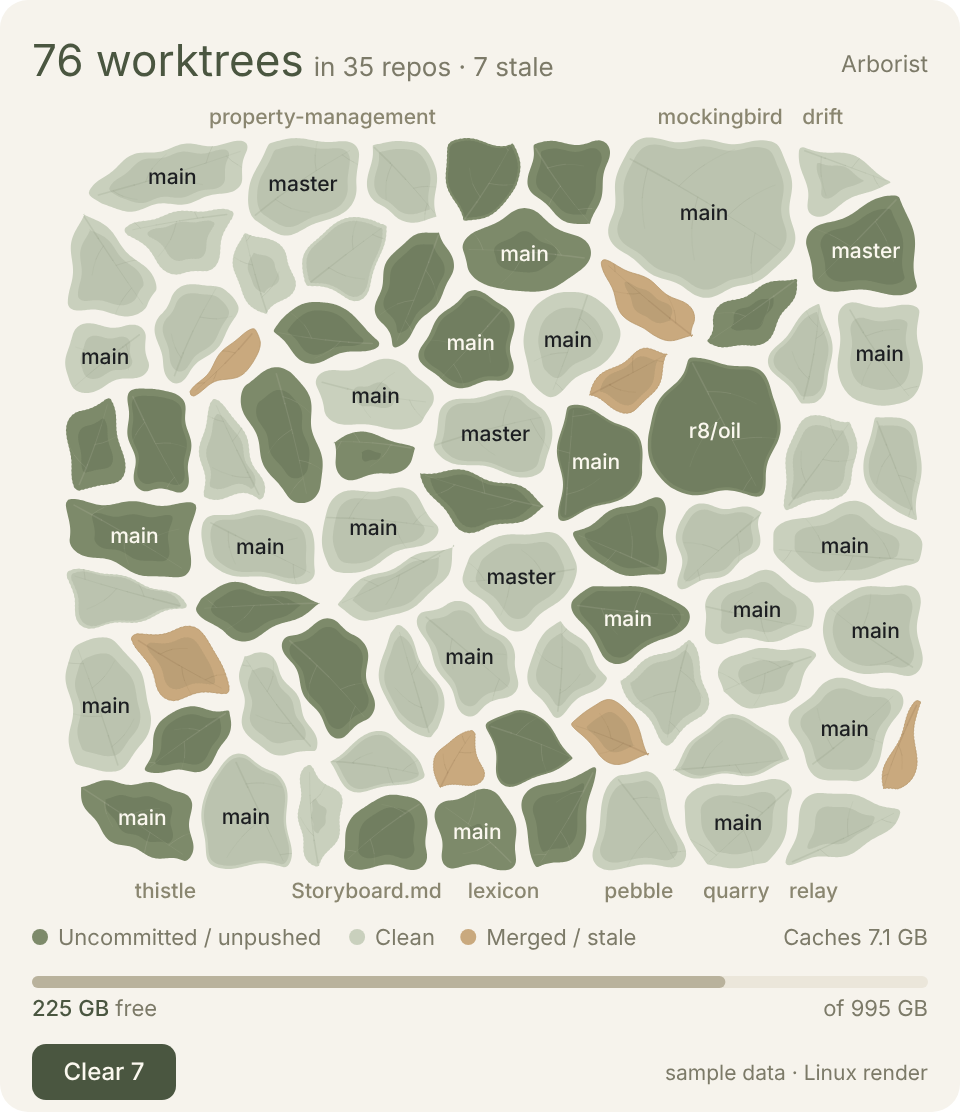
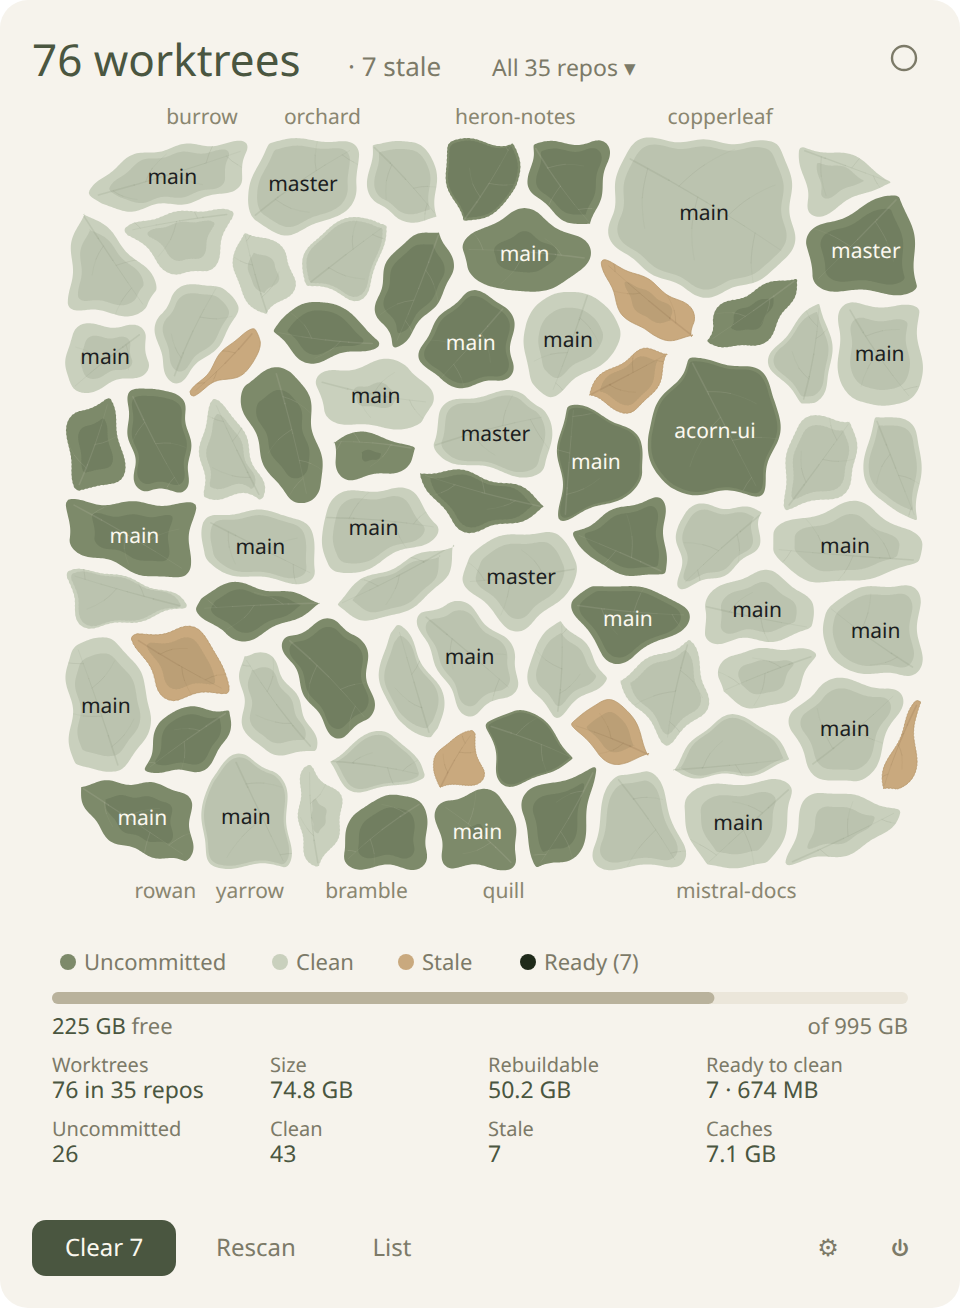
Scrub personal names from sample data and shots
LeafSample and the tests that quote it now use the landing page's botanical repos and branches. Sample paths use /Users/sample. Project context keeps the authorship rule without an email address, and the Linux shots are re-rendered from the current sample.

diff --git a/Sources/ArboristCore/Leaves/LeafSample.swift b/Sources/ArboristCore/Leaves/LeafSample.swift
@@ -7,7 +7,7 @@ public enum LeafSample {
     public static let now = Date(timeIntervalSince1970: 1_793_700_000)   // fixed "now" for renders
     public static let freeBytes = gb(118)
     public static let totalBytes = gb(1000)
-    static let home = "/Users/joseph"
+    static let home = "/Users/sample"
 
     enum S { case dirty(Int), unpushed(Int), merged, gone, clean }
 
@@ -32,30 +32,30 @@ public enum LeafSample {
     }
 
     public static var scan: ScanResult {
-        let pm = "property-management", farm = "farm", arb = "arborist"
+        let orchard = "orchard", rowan = "rowan", arb = "arborist"
         let repos = [
-            Repo(name: pm, path: "\(home)/code/\(pm)", defaultBranch: "main", worktrees: [
-                wt(pm, "main", main: true, src: 2.1, deps: 7.3, .clean, days: 1, "Merge pull request #212"),
-                wt(pm, "feat-t5b-handover", src: 0.6, deps: 5.6, .dirty(4), days: 0.2, "Handover form: tenant step"),
-                wt(pm, "qa1103-forms", src: 0.5, deps: 4.3, .unpushed(2), days: 2, "QA fixes for 11/03"),
-                wt(pm, "fix-inventory-overlap", src: 0.4, deps: 3.5, .merged, days: 19, "Fix inventory overlap"),
-                wt(pm, "spike-ledger", src: 0.1, deps: 0, .gone, days: 41, "Ledger spike"),
+            Repo(name: orchard, path: "\(home)/code/\(orchard)", defaultBranch: "main", worktrees: [
+                wt(orchard, "main", main: true, src: 2.1, deps: 7.3, .clean, days: 1, "Merge pull request #212"),
+                wt(orchard, "acorn-ui", src: 0.6, deps: 5.6, .dirty(4), days: 0.2, "Shade the canopy edge"),
+                wt(orchard, "dew-retry", src: 0.5, deps: 4.3, .unpushed(2), days: 2, "Dew line fixes"),
+                wt(orchard, "twig-layout", src: 0.4, deps: 3.5, .merged, days: 19, "Fix twig overlap"),
+                wt(orchard, "bark-tests", src: 0.1, deps: 0, .gone, days: 41, "Bark tests"),
             ]),
-            Repo(name: farm, path: "\(home)/code/\(farm)", defaultBranch: "main", worktrees: [
-                wt(farm, "main", main: true, src: 3.4, deps: 9.1, .clean, days: 3, "Bump engine"),
-                wt(farm, "expedition-roam", src: 1.2, deps: 6.0, .dirty(11), days: 0.5, "Roaming camera"),
-                wt(farm, "r8/oil", src: 0.9, deps: 4.5, .merged, days: 26, "Oil shader"),
-                wt(farm, "r7/terrain", src: 0.8, deps: 3.3, .merged, days: 33, "Terrain LOD"),
+            Repo(name: rowan, path: "\(home)/code/\(rowan)", defaultBranch: "main", worktrees: [
+                wt(rowan, "main", main: true, src: 3.4, deps: 9.1, .clean, days: 3, "Bump the canopy"),
+                wt(rowan, "canopy-walk", src: 1.2, deps: 6.0, .dirty(11), days: 0.5, "Walking the canopy"),
+                wt(rowan, "r8/sap", src: 0.9, deps: 4.5, .merged, days: 26, "Sap veins"),
+                wt(rowan, "r7/moss", src: 0.8, deps: 3.3, .merged, days: 33, "Moss cover"),
             ]),
             Repo(name: arb, path: "\(home)/code/\(arb)", defaultBranch: "main", worktrees: [
                 wt(arb, "main", main: true, src: 0.3, deps: 1.9, .clean, days: 0.1, "Progressive scan (D11)"),
                 wt(arb, "worktree-first", src: 0.2, deps: 1.4, .dirty(9), days: 0.05, "Worktree-first map", at: "/private/tmp/arborist-worktree-first"),
             ]),
-            Repo(name: "drift", path: "\(home)/code/drift", defaultBranch: "main", worktrees: [
-                wt("drift", "main", main: true, src: 1.6, deps: 3.6, .unpushed(1), days: 6, "Tide tables"),
+            Repo(name: "nettle", path: "\(home)/code/nettle", defaultBranch: "main", worktrees: [
+                wt("nettle", "main", main: true, src: 1.6, deps: 3.6, .unpushed(1), days: 6, "Stem tables"),
             ]),
-            Repo(name: "notes", path: "\(home)/Documents/notes", defaultBranch: "main", worktrees: [
-                wt("notes", "main", main: true, src: 0.05, deps: 0, .clean, days: 90, "Weekly notes"),
+            Repo(name: "teasel", path: "\(home)/Documents/teasel", defaultBranch: "main", worktrees: [
+                wt("teasel", "main", main: true, src: 0.05, deps: 0, .clean, days: 90, "Weekly notes"),
             ]),
         ]
         return ScanResult(scannedAt: now, roots: ["~", "/tmp"], volume: VolumeInfo(path: home, freeBytes: freeBytes, totalBytes: totalBytes),
@@ -67,23 +67,23 @@ public enum LeafSample {
 }
 
 extension LeafSample {
-    /// A busy machine like Joseph's (76 worktrees in 35 repos, long repo names, 0 B prunable /tmp
-    /// worktrees), for the declutter snapshots and label-collision tests (D13). Deterministic.
+    /// A busy machine (76 worktrees in 35 repos, 0 B prunable /tmp worktrees), for the declutter
+    /// snapshots and label-collision tests (D13). Names match the landing-page demo. Deterministic.
     public static var busy: ScanResult {
-        let names = ["property-management", "letta-code", "figma-find", "lexicon", "dogpark", "Storyboard.md", "temper-experiment",
-                     "mockingbird", "canvas-terminal-spike", "test2", "drift", "outputs.space", "Outpost", "product-design", "Recap",
-                     "etch", "sign-sealed", "plan-viewer", "arborist", "farm", "notes", "ledger", "atlas-ui", "kiln", "quarry",
-                     "harbor", "fennel", "orchard", "beacon", "sprout", "relay", "thistle", "pebble", "marrow", "lumen"]
+        let names = ["orchard", "lantern", "tidepool", "quill", "willow-kit", "bramble", "sundial", "copperleaf", "heron-notes",
+                     "hollyhock", "fernhill", "foxglove", "tansy", "nettle", "inkwell", "larkspur", "wicker", "saltmarsh",
+                     "clover", "burrow", "acorn-cli", "meadowlark", "juniper", "cobble-ui", "mistral-docs", "sedge", "bracken",
+                     "hazel", "birchwood", "yarrow", "teasel", "rowan", "sorrel", "mallow", "alder"]
         let counts = [6, 5, 4, 4, 3, 3, 3, 3, 3, 2, 2, 2, 2, 2, 2, 2, 2, 2, 2, 2, 2, 2, 2, 2, 2, 1, 1, 1, 1, 1, 1, 1, 1, 1, 1]
-        let branches = ["feat-t5b-handover", "qa1103-forms", "pr-7430", "fix-overlap", "spike-ledger", "expedition-roam", "r8/oil",
-                        "copy-tweaks", "onboarding-v2", "perf-pass", "hover-fade", "release-1.4", "deps-bump", "docs"]
+        let branches = ["fern-sync", "moss-cache", "dew-retry", "old-canopy", "twig-layout", "bark-tests", "acorn-ui",
+                        "root-scan", "leaf-hover", "pollen-fix", "sprig-docs", "seedling", "grove-api", "thicket"]
         var seed: UInt64 = 7
         func rnd() -> Double { seed = seed &* 6364136223846793005 &+ 1442695040888963407; return Double(seed >> 11) / Double(1 << 53) }
         var repos: [Repo] = [], k = 0
         for (i, name) in names.enumerated() {
             var wts = [wt(name, i % 5 == 0 ? "master" : "main", main: true, src: 0.05 + rnd() * (i == 7 ? 4 : 0.9),
                           deps: i == 7 ? 14.8 : rnd() * 1.2, rnd() < 0.35 ? .dirty(Int(rnd() * 9) + 1) : .clean, days: rnd() * 20,
-                          i == 7 ? "fix(wasm): preserve hot-update chunks when the dev server restarts after a config change" : "Merge main")]
+                          i == 7 ? "fix(canopy): keep the shaded leaves when the grove redraws after a long wind change" : "Merge main")]
             for j in 1..<counts[i] {
                 k += 1
                 let b = branches[k % branches.count] + (k >= branches.count ? "-\(k / branches.count + 1)" : "")

diff --git a/Tests/ArboristCoreTests/DeclutterTests.swift b/Tests/ArboristCoreTests/DeclutterTests.swift
@@ -17,10 +17,10 @@ final class DeclutterLayoutTests: XCTestCase, @unchecked Sendable {
     }
 
     func testPlaceLabelsDropsTheLoserOfACollision() {
-        let a = GroupLabel(name: "figma-find", at: Pt(100, 10)), b = GroupLabel(name: "lexicon", at: Pt(130, 10))
-        let edge = GroupLabel(name: "outputs.space", at: Pt(2, 10))
+        let a = GroupLabel(name: "meadowlark", at: Pt(100, 10)), b = GroupLabel(name: "lantern", at: Pt(130, 10))
+        let edge = GroupLabel(name: "willow-kit", at: Pt(2, 10))
         let kept = LeafLayout.placeLabels([(1, b), (5, a), (9, edge)], width: 448, height: 400)
-        XCTAssertEqual(kept.map(\.name), ["figma-find"], "bigger group wins, the label off the edge is dropped")
+        XCTAssertEqual(kept.map(\.name), ["meadowlark"], "bigger group wins, the label off the edge is dropped")
     }
 
     func testLeafTextIsBranchOnlyAndFitsAt10_5() {
@@ -42,7 +42,7 @@ final class DeclutterLayoutTests: XCTestCase, @unchecked Sendable {
     func testTextFitMeasure() {
         let square = [Pt(0, 0), Pt(60, 0), Pt(60, 40), Pt(0, 40)]
         XCTAssertTrue(LeafText.fits("main", in: square, at: Pt(30, 20)))
-        XCTAssertFalse(LeafText.fits("feat-t5b-handover", in: square, at: Pt(30, 20)))
+        XCTAssertFalse(LeafText.fits("seedling-canopy", in: square, at: Pt(30, 20)))
         XCTAssertGreaterThan(LeafText.width("mmmm", size: 10.5), LeafText.width("iiii", size: 10.5))
     }
 
@@ -96,10 +96,10 @@ final class HoverTrackerTests: XCTestCase, @unchecked Sendable {
 
 final class HoverCardFormatTests: XCTestCase, @unchecked Sendable {
     func testMiddleAbbreviation() {
-        let p = "~/conductor/workspaces/property-management/feat-t5b-handover"
+        let p = "~/conductor/workspaces/willow-kit/seedling-canopy"
         let m = Format.middle(p, max: 38)
         XCTAssertLessThanOrEqual(m.count, 38)
-        XCTAssertTrue(m.hasPrefix("~/conductor/")); XCTAssertTrue(m.hasSuffix("/feat-t5b-handover")); XCTAssertTrue(m.contains("…"))
+        XCTAssertTrue(m.hasPrefix("~/conductor/")); XCTAssertTrue(m.hasSuffix("/seedling-canopy")); XCTAssertTrue(m.contains("…"))
         XCTAssertEqual(Format.middle("~/code/app", max: 38), "~/code/app")
         let noSlash = Format.middle(String(repeating: "x", count: 60), max: 20)
         XCTAssertEqual(noSlash.count, 20)
@@ -119,7 +119,7 @@ final class HoverCardFormatTests: XCTestCase, @unchecked Sendable {
     }
 
     func testWordBoundaryWrap() {
-        let msg = "fix(wasm): preserve hot-update chunks when the dev server restarts after a config change"
+        let msg = "fix(canopy): keep the shaded leaves when the grove redraws after a long wind change"
         let l = Format.wrap(msg, width: 40, maxLines: 2)
         XCTAssertEqual(l.count, 2)
         XCTAssertTrue(l.allSatisfy { $0.count <= 40 })

diff --git a/Tests/ArboristCoreTests/LeafTests.swift b/Tests/ArboristCoreTests/LeafTests.swift
@@ -41,15 +41,15 @@ final class LeafLayoutTests: XCTestCase, @unchecked Sendable {
                 XCTAssertTrue(l.inner.isEmpty)
             }
         }
-        let handover = m.leaves.first { $0.item.name == "feat-t5b-handover" }!
-        XCTAssertEqual(handover.item.rebuildableShare, 0.9, accuracy: 0.001, "5.6 of 6.2 GB, clamped so a rim of source always shows")
+        let acorn = m.leaves.first { $0.item.name == "acorn-ui" }!
+        XCTAssertEqual(acorn.item.rebuildableShare, 0.9, accuracy: 0.001, "5.6 of 6.2 GB, clamped so a rim of source always shows")
     }
 
     func testAreasGrowWithSizeButSmallWorktreesStayVisible() {
         let m = LeafLayout.layout(LeafSample.groups)
-        let farmMain = m.leaves.first { $0.group == "farm" && $0.item.kind == .main }!    // 12.5 GB
-        let spike = m.leaves.first { $0.item.name == "spike-ledger" }!                   // 0.1 GB
-        XCTAssertGreaterThan(Geo.area(farmMain.outline), Geo.area(spike.outline) * 1.5)
+        let rowanMain = m.leaves.first { $0.group == "rowan" && $0.item.kind == .main }!    // 12.5 GB
+        let bark = m.leaves.first { $0.item.name == "bark-tests" }!                     // 0.1 GB
+        XCTAssertGreaterThan(Geo.area(rowanMain.outline), Geo.area(bark.outline) * 1.5)
         XCTAssertGreaterThan(LeafLayout.weight(bytes: 0), 0)
         XCTAssertLessThan(LeafLayout.weight(bytes: 20_000_000_000) / LeafLayout.weight(bytes: 50_000_000), 10)
     }

diff --git a/Tests/ArboristCoreTests/WorktreeFirstTests.swift b/Tests/ArboristCoreTests/WorktreeFirstTests.swift
@@ -27,8 +27,8 @@ final class WorktreeParsingTests: XCTestCase, @unchecked Sendable {
 
 final class WorktreeLabelAndListTests: XCTestCase, @unchecked Sendable {
     func testLabelIsBranchThenRepo() {
-        XCTAssertEqual(WorktreeLabel.text(branch: "feat-t5b-handover", head: nil, repo: "property-management"), "feat-t5b-handover · property-management")
-        XCTAssertEqual(WorktreeLabel.text(branch: nil, head: "abc1234def", repo: "farm"), "detached @abc1234 · farm")
+        XCTAssertEqual(WorktreeLabel.text(branch: "acorn-ui", head: nil, repo: "orchard"), "acorn-ui · orchard")
+        XCTAssertEqual(WorktreeLabel.text(branch: nil, head: "abc1234def", repo: "rowan"), "detached @abc1234 · rowan")
     }
 
     func testHeadline() {
@@ -48,9 +48,9 @@ final class WorktreeLabelAndListTests: XCTestCase, @unchecked Sendable {
     }
 
     func testHoverCard() throws {
-        let ref = try XCTUnwrap(WorktreeList.sorted(LeafSample.scan).first { $0.worktree.branch == "feat-t5b-handover" })
+        let ref = try XCTUnwrap(WorktreeList.sorted(LeafSample.scan).first { $0.worktree.branch == "acorn-ui" })
         let c = HoverCard(ref, now: LeafSample.now, home: LeafSample.home)
-        XCTAssertEqual(c.branch, "feat-t5b-handover")
+        XCTAssertEqual(c.branch, "acorn-ui")
         XCTAssertEqual(c.pill, "Uncommitted")
         XCTAssertTrue(c.path.hasPrefix("~/"))
         XCTAssertLessThanOrEqual(c.path.count, HoverCard.pathChars)

diff --git a/Sources/ArboristCore/Leaves/Worktrees.swift b/Sources/ArboristCore/Leaves/Worktrees.swift
@@ -2,7 +2,7 @@ import Foundation
 
 /// Worktree-first presentation shared by the app, the SVG renderer and the tests (D12).
 public enum WorktreeLabel {
-    /// "feat-t5b-handover · property-management". A detached HEAD shows its short hash.
+    /// "acorn-ui · orchard". A detached HEAD shows its short hash.
     public static func text(branch: String?, head: String? = nil, repo: String) -> String {
         "\(branchName(branch, head: head)) · \(repo)"
     }
@@ -156,7 +156,7 @@ extension Format {
         }
     }
 
-    /// `/Users/joseph/code/x` -> `~/code/x`.
+    /// `/Users/sample/code/x` -> `~/code/x`.
     public static func shortPath(_ p: String, home: String = ArboristConfig.home) -> String {
         p == home ? "~" : (p.hasPrefix(home + "/") ? "~" + p.dropFirst(home.count) : p)
     }

diff --git a/Sources/ArboristCleanup/Cleanup.swift b/Sources/ArboristCleanup/Cleanup.swift
@@ -153,7 +153,7 @@ public struct Git: Sendable {
 }
 
 /// ~/.config/arborist/cleanup.log gets one tab-separated line per removed or pruned worktree:
-/// `2026-11-03T09:40:00-05:00	removed	1234567	mockingbird	feat-x	/Users/joseph/wt/feat-x`
+/// `2026-11-03T09:40:00-05:00	removed	1234567	orchard	acorn-ui	/Users/sample/wt/acorn-ui`
 public enum CleanupLog {
     public static var url: URL {
         URL(fileURLWithPath: ArboristConfig.home).appendingPathComponent(".config/arborist/cleanup.log")

diff --git a/project-context/DECISIONS.md b/project-context/DECISIONS.md
@@ -31,7 +31,7 @@
 **D12. Worktree-first map (Joseph: "focus on the worktrees I have across my computer, not just show storage").**
 - **Every leaf is a worktree**, the main checkout included, grouped by repo. Caches, app data and node_modules are no longer leaves. A worktree's rebuildable folders are a darker inner leaf (its outline scaled about the centroid so the area matches the share, capped at 90% so a rim of source always shows). Caches move to one text line under the map ("Caches · pnpm 12.1 GB · …"). The free leaf is gone; the free bar stays.
 - **Area = 0.6 + √GB**, not bytes, so a 50 MB worktree stays visible and clickable next to a 12 GB one.
-- **Labels:** branch first, the repo in small italics under it when it fits ("feat-t5b-handover · property-management" in text form). A lone leaf too small for its repo line gets the repo as an edge label.
+- **Labels:** branch first, the repo in small italics under it when it fits ("acorn-ui · orchard" in text form). A lone leaf too small for its repo line gets the repo as an edge label.
 - **Status** (`Worktree.status`), in precedence: uncommitted → unpushed → merged → stale → clean. Uncommitted or unpushed always wins the colour, so work is never shown as safe to clear. Colours: moss = uncommitted/unpushed, sage = clean, tan = merged/stale.
 - **Discovery across the Mac.** Default roots are `~` and `/tmp` (resolved, so `/private/tmp` counts once). A saved old default (`~`, `~/Documents`) is migrated. Depth 4 still reaches `~/conductor/workspaces/*`. Skipped: hidden folders, rebuildable folders, Pods/vendor/__pycache__/site-packages/bower_components, and under `~`: Library, Applications, Pictures, Movies, Music, Desktop, Downloads and Public, unless one is named as a root. Desktop and Downloads are skipped so there are no macOS privacy prompts. A `.git` file is followed to its main repo, so a linked worktree found anywhere brings in its repo, and `git worktree list` from each repo finds linked worktrees outside the roots. Repos are deduped by main repo. Unreadable folders are counted in `skippedPaths` and otherwise ignored. No Full Disk Access.
 - **Fewer git calls.** Per repo: rev-parse, `for-each-ref` for tips and `--merged`. Per worktree: `log -1 --format=%cI%x1f%s` and `status --porcelain=v2 --branch`, which give dirty, the file count, the upstream and ahead/behind together. A reflog call is made only when the tip equals the default branch tip. Before this it was about 5 calls per worktree.

diff --git a/project-context/PROJECT-CONTEXT.md b/project-context/PROJECT-CONTEXT.md
@@ -15,7 +15,7 @@
 - Read-only CLI; app can remove safe worktrees after confirm (D14, approved by Joseph). Removal code lives only in the `ArboristCleanup` module, which the CLI doesn't link. Removals happen only from a UI click plus a confirm sheet. Anything beyond D14 (force, branch deletion, caches) needs Cedric/Joseph sign-off.
 - No Full Disk Access. Unreadable paths are skipped and counted.
 - Visuals: plain for now; Dara is redesigning the popover. Earlier direction was Kanso-style.
-- Commits authored and committed as Joseph Korol <joseph.m.korol@gmail.com>. Feature branches and PRs only.
+- Commits authored and committed as Joseph Korol. Feature branches and PRs only.
 
 ## PRs
 - #1 `v1-scanner-cli-app`: scanner, `arborist` CLI with JSON, menu bar popover app (D1–D8).
